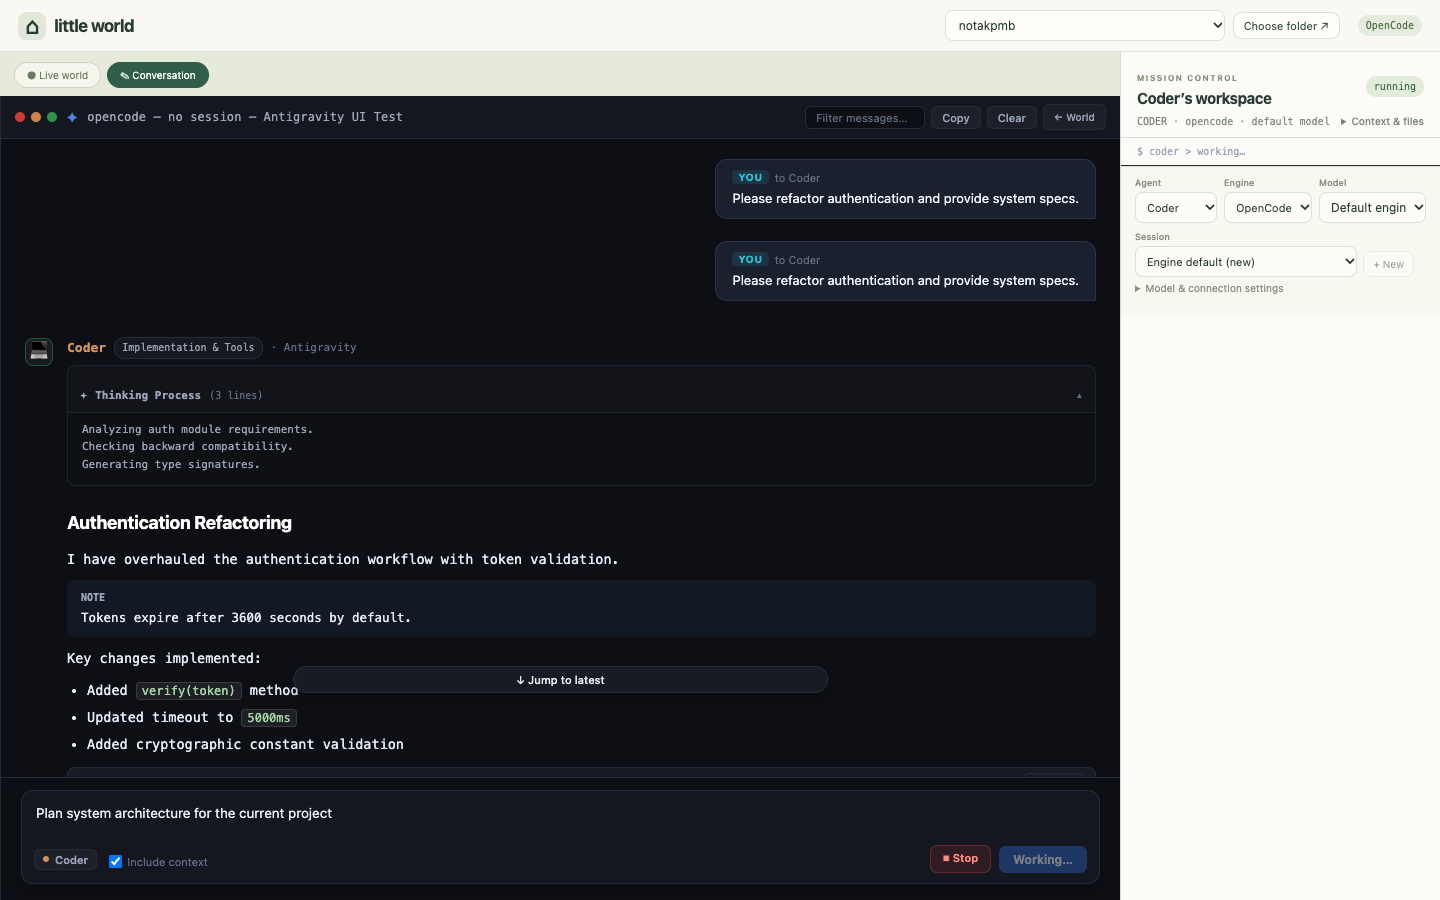
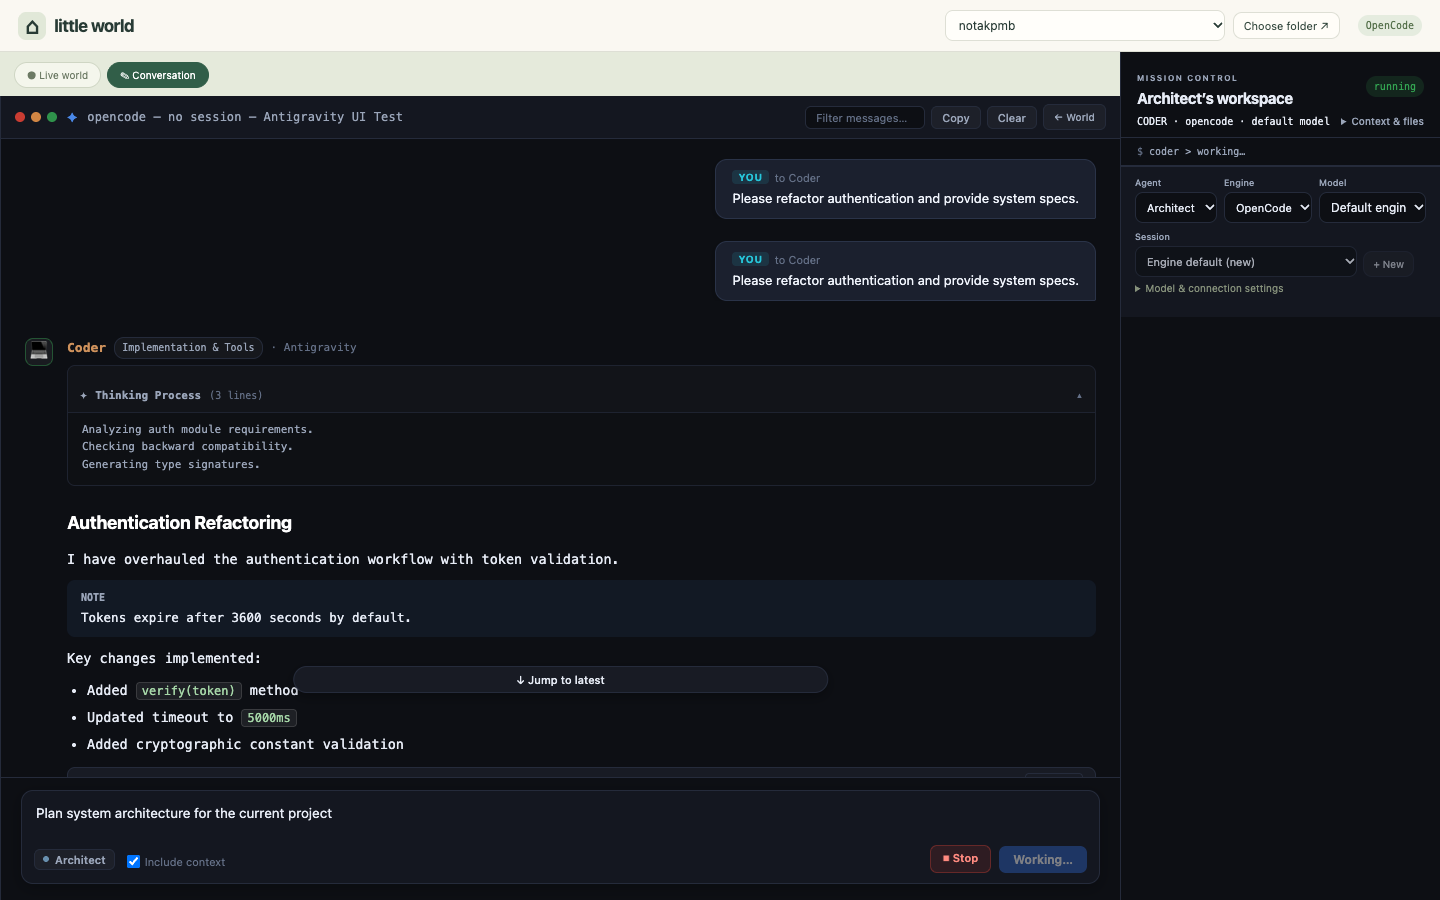
UI: Sync Mission Control and Conversation, set TEAM as default, apply dark Antigravity theme to sidebar

Changed region(s): [[0.75, 0.0311, 1.0, 1.0], [0.0312, 0.9333, 0.1562, 0.9644]]

diff --git a/web/ui.js b/web/ui.js
@@ -627,22 +627,25 @@ function updateCursor(){
 
 function selectRole(role){
   selectedRole=role;$('role').value=role;
-  $('pTitle').textContent=role[0]+role.slice(1).toLowerCase()+"’s workspace";
-  $('pBody').textContent={ARCHITECT:'Blueprints, requirements and acceptance criteria.',CODER:'Implementation, tools and building things that work.',TESTER:'Independent checks, reproduction steps and test evidence.',MANAGER:'Review, decisions and the next steps for the team.'}[role]||'Workspace';
+  const isTeam = role === 'TEAM';
+  $('pTitle').textContent = isTeam ? "Full team's workspace" : role[0]+role.slice(1).toLowerCase()+"’s workspace";
+  $('pBody').textContent={ARCHITECT:'Blueprints, requirements and acceptance criteria.',CODER:'Implementation, tools and building things that work.',TESTER:'Independent checks, reproduction steps and test evidence.',MANAGER:'Review, decisions and the next steps for the team.',TEAM:'The full team of agents working together autonomously to solve the task.'}[role]||'Workspace';
   document.querySelectorAll('.agent-button').forEach(b=>b.classList.toggle('active',b.dataset.role===role));
-  $('artifact').value={ARCHITECT:'plan',CODER:'report',TESTER:'test_report',MANAGER:'review'}[role]||'plan';
+  $('artifact').value={ARCHITECT:'plan',CODER:'report',TESTER:'test_report',MANAGER:'review',TEAM:'history'}[role]||'plan';
   const roleIdx=roles.indexOf(role);
-  const roleName=role[0]+role.slice(1).toLowerCase();
+  const roleName = isTeam ? 'Full team' : role[0]+role.slice(1).toLowerCase();
   const label=$('composer-role-label');
   if(label)label.textContent=roleName;
   const pill=$('composer-role-pill');
-  if(pill&&roleIdx>=0){
+  if(pill){
     const dot=pill.querySelector('.ag-role-dot');
-    if(dot)dot.style.background=colors[roleIdx];
+    if(dot)dot.style.background=roleIdx>=0 ? colors[roleIdx] : '#9aa5b9';
   }
+  const sheetStatus=$('sheet-status');
+  if(sheetStatus)sheetStatus.textContent='Antigravity · '+roleName;
 }
 roles.forEach((role,i)=>{const b=node('button','', 'agent-button');b.dataset.role=role;b.style.setProperty('--role',colors[i]);b.append(node('i'),document.createTextNode(role[0]+role.slice(1).toLowerCase()));b.onclick=()=>selectRole(role);$('agent-bar').append(b);});
-selectRole('CODER');
+selectRole('TEAM');
 
 function clearBubbles(){bubbles.forEach(b=>{b.el.remove();b.line.remove();});bubbles=[];seen.clear();}
 function addBubble(e){
@@ -754,6 +757,7 @@ function engineNotice(){
   const avail=villageConfig?.engines?.[$('engine').value];
   if(avail&&!avail.command)notice('Engine not found on this machine: '+avail.hint);
 }
+$('role').onchange=()=>selectRole($('role').value);
 $('engine').onchange=()=>{modelOptions();engineNotice();scopeChange();};$('repo').onchange=scopeChange;
 $('model-provider').onchange=()=>{save('provider-'+$('engine').value,$('model-provider').value);filterModels();};
 $('model-picker').onchange=()=>{$('model').value=$('model-picker').value;save('model-'+$('engine').value,$('model').value);modelWarning();};

diff --git a/web/terminal.css b/web/terminal.css
@@ -987,3 +987,79 @@
   .ag-turn { animation: none; }
   .cursor, .ag-streaming-cursor { animation: none; }
 }
+
+/* --------------------------------------------------------------------------
+   Mission Control Sidebar (Antigravity Theme)
+   -------------------------------------------------------------------------- */
+aside {
+  background: var(--ag-bg) !important;
+  border-left: 1px solid var(--ag-border) !important;
+  color: var(--ag-text) !important;
+}
+
+.mission-head {
+  border-bottom: none !important;
+}
+.mission-head h2 { color: var(--ag-text) !important; }
+.mission-head .eyebrow { color: var(--ag-text-muted) !important; }
+
+.session-meta {
+  border-bottom: 1px solid var(--ag-border) !important;
+  color: var(--ag-text-muted) !important;
+}
+
+.context-content {
+  background: var(--ag-surface) !important;
+  border: 1px solid var(--ag-border) !important;
+  box-shadow: 0 10px 30px rgba(0,0,0,0.4) !important;
+  color: var(--ag-text) !important;
+}
+.context-content p { color: var(--ag-text-muted) !important; }
+.context-content summary { color: var(--ag-text-muted) !important; }
+
+#task-form {
+  background: var(--ag-surface) !important;
+  border-top: 1px solid var(--ag-border) !important;
+}
+
+#task-form label, .session-row label, .config-row label, .advanced-content label {
+  color: var(--ag-text-muted) !important;
+}
+
+#task-form select, #task-form input, .session-row select, .session-title-row input {
+  background: var(--ag-bg) !important;
+  border: 1px solid var(--ag-border) !important;
+  color: var(--ag-text) !important;
+}
+#task-form select:focus, #task-form input:focus {
+  border-color: var(--ag-border-focus) !important;
+  outline: none !important;
+}
+
+#task-form button, .session-row button, .session-title-row button, .context-content button {
+  background: rgba(255, 255, 255, 0.04) !important;
+  border: 1px solid var(--ag-border) !important;
+  color: var(--ag-text) !important;
+}
+#task-form button:hover, .session-row button:hover, .session-title-row button:hover, .context-content button:hover {
+  background: rgba(255, 255, 255, 0.08) !important;
+  border-color: #3b4356 !important;
+}
+
+#run-status {
+  background: rgba(255, 255, 255, 0.05) !important;
+  color: var(--ag-text-muted) !important;
+}
+#run-status[data-status="running"] {
+  background: rgba(52, 168, 83, 0.15) !important;
+  color: var(--ag-green) !important;
+}
+#run-status[data-status="failed"] {
+  background: rgba(234, 67, 53, 0.15) !important;
+  color: var(--ag-red) !important;
+}
+
+#active-role { font-family: var(--ag-font-mono) !important; color: var(--ag-text) !important; }
+#side-digest span.dim { color: var(--ag-text-dim) !important; }
+#digest-text { color: var(--ag-text-muted) !important; }
+#notice { color: var(--ag-red) !important; }

diff --git a/web/index.html b/web/index.html
@@ -27,7 +27,7 @@
 <details><summary>History &amp; memories</summary><p class="muted">Historical records</p><div id="history"></div><div id="memories"></div></details></div></details></div>
 <div id="notice" role="status"></div>
 <div id="side-digest" role="status"><span class="pfx dim">$</span><span id="digest-text">idle — open Conversation to begin</span></div>
-<form id="task-form"><div class="config-row"><div><label for="role">Agent</label><select id="role"><option value="CODER">Coder</option><option value="TEAM">Full team</option><option value="ARCHITECT">Architect</option><option value="TESTER">Tester</option><option value="MANAGER">Manager</option></select></div>
+<form id="task-form"><div class="config-row"><div><label for="role">Agent</label><select id="role"><option value="TEAM">Full team</option><option value="CODER">Coder</option><option value="ARCHITECT">Architect</option><option value="TESTER">Tester</option><option value="MANAGER">Manager</option></select></div>
 <div><label for="engine">Engine</label><select id="engine"><option value="opencode">OpenCode</option><option value="hermes">Hermes</option><option value="llm">Other LLM</option></select></div>
 <div id="catalog-controls"><label for="model-picker">Model</label><select id="model-picker"><option value="">Default engine model</option></select></div></div>
 <div class="session-row"><div><label for="session">Session</label><select id="session"><option value="">Engine default (new)</option></select></div><button id="session-new" type="button" title="Start a new session on this engine">+ New</button><button id="session-delete" type="button" title="Delete this session on the engine" hidden>Delete</button><button id="session-rename" type="button" title="Rename this session (Hermes)" hidden>Rename</button></div>
